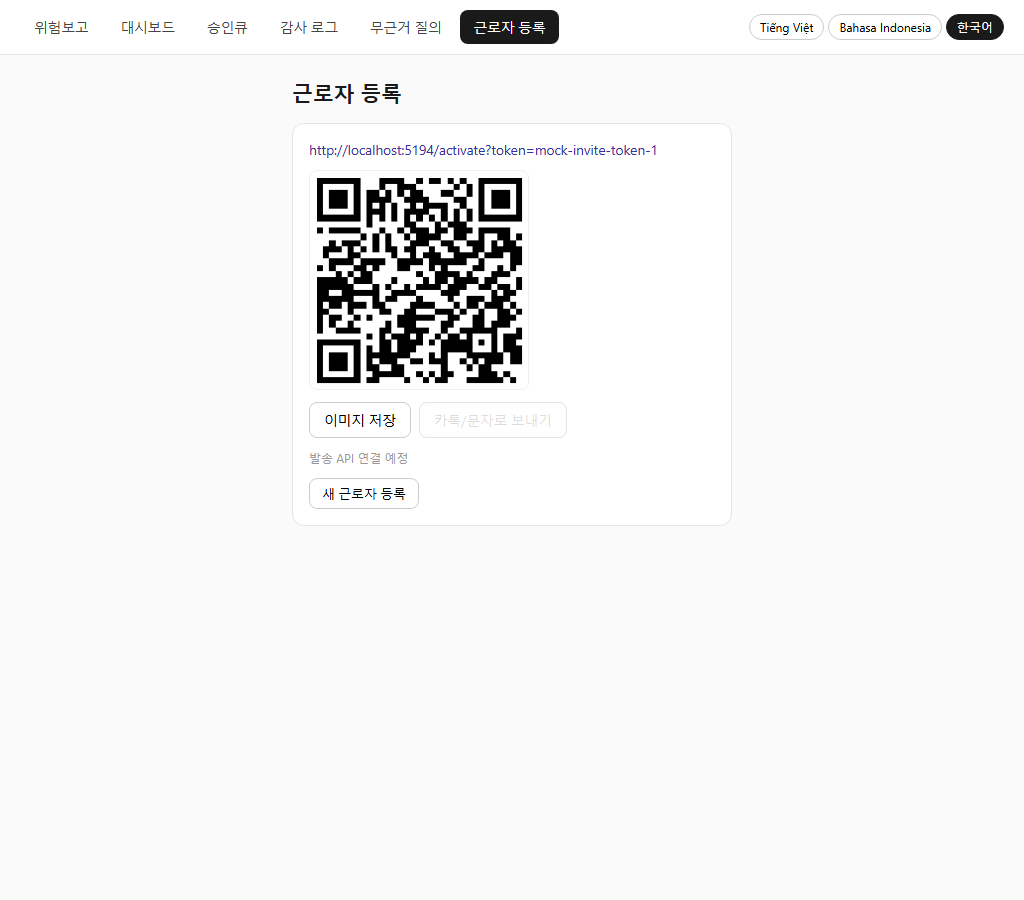
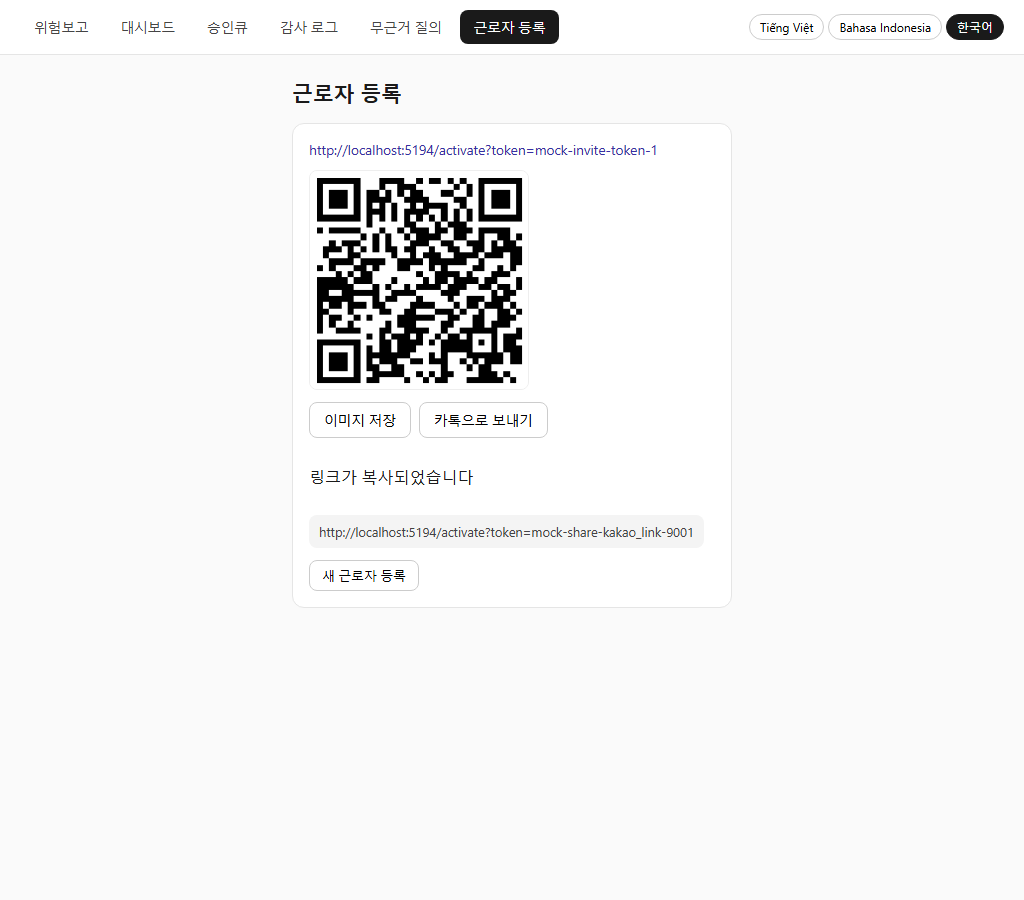
feat(frontend): 근로자 등록 화면 카톡 발송 버튼 연결(⑤)
SB #87 파트1 확정 계약: POST /admin/workers/{id}/send-invite
{channel:'kakao_link'} → {share_url}. {id}=worker_id, Bearer 미부착
(invite와 동일 IP 화이트리스트 관례).

- api/types.ts: WorkerInviteResult에 worker_id?: number 추가(§3 계약
  밖·SB #87 파트2 전까지 실백엔드 미제공, optional로 방어). SendInviteResult
  {share_url} 신규
- api/adminWorkers.ts: sendInvite(workerId, channel='kakao_link') —
  실경로 배선(Bearer 미부착) + mock, !ok면 status 실어 throw(inviteWorker
  관례 재사용)
- api/fixtures/adminWorkers.fixtures.ts: inviteMock 응답에 worker_id
  채움. sendInviteMock 신규(invite_url과 같은 축의 mock 링크 반환)
- Workers/index.tsx: 기존 disabled "카톡/문자로 보내기" placeholder →
  "카톡으로 보내기"(admin.workers.sendKakao)로 교체
  · 활성 조건 = result.worker_id 존재(없으면 disabled + 안내 문구 —
    파트2 전 실백엔드는 worker_id 미제공)
  · navigator.share 가능 시 우선 사용, 사용자 취소(AbortError)는 에러
    아님(폴백 없이 종료)
  · 그 외(share 미지원·취소 아닌 실패) → clipboard.writeText 시도 +
    share_url 텍스트 항상 노출("링크가 복사되었습니다" 병기)
  · 복사도 실패하면 share_url 텍스트만으로 수동 복사 유도
  · ★invite POST 본문은 여전히 {name,emp_no,lang}만 — phone 무변경
- i18n(ko/vi/in): sendKakao·sendCopied·sendError 신규, 안 쓰게 된
  sendComingSoon 제거(dead key 0 유지), 그 외 기존 키 전부 무변경

검증: build green(mock/real, tsc --noEmit 포함). shot:admin-workers
갱신(headless Chromium은 navigator.share 미지원이라 클립보드 경로 자동
검증됨, clipboard 권한 grantPermissions로 부여) — 발급→worker_id 있는
mock 확인→발송 버튼 활성화→클릭→share_url 획득→클립보드 복사 성공+
share-url-text·send-copied 렌더 전부 확인, 기존 422/409/QR/이미지저장
회귀 전부 유지, 전부 PASS. dead i18n key 0(58키).

Changed region(s): [[0.3125, 0.4978, 0.5, 0.6533], [0.4375, 0.4356, 0.5312, 0.4978], [0.5312, 0.5911, 0.6562, 0.6222]]

diff --git a/frontend/src/apps/admin/screens/Workers/index.tsx b/frontend/src/apps/admin/screens/Workers/index.tsx
@@ -1,12 +1,13 @@
 import { useEffect, useRef, useState, type FormEvent } from "react";
 import QRCode from "qrcode";
-import { inviteWorker } from "../../../../api/adminWorkers";
+import { inviteWorker, sendInvite } from "../../../../api/adminWorkers";
 import type { WorkerInviteLang, WorkerInviteResult } from "../../../../api/types";
 import { useAdminLang } from "../../../../i18n/AdminLangContext";
 import "./Workers.css";
 
 type Status = "idle" | "loading" | "error";
 type ErrorKind = "duplicate" | "invalid" | "generic";
+type SendStatus = "idle" | "loading" | "error";
 
 function errorStatus(e: unknown): number | undefined {
   return e && typeof e === "object" && "status" in e ? (e as { status?: number }).status : undefined;
@@ -23,6 +24,9 @@ export default function AdminWorkersScreen() {
   const [status, setStatus] = useState<Status>("idle");
   const [errorKind, setErrorKind] = useState<ErrorKind>("generic");
   const [result, setResult] = useState<WorkerInviteResult | null>(null);
+  const [sendStatus, setSendStatus] = useState<SendStatus>("idle");
+  const [shareUrl, setShareUrl] = useState<string | null>(null);
+  const [copied, setCopied] = useState(false);
   const canvasRef = useRef<HTMLCanvasElement>(null);
 
   useEffect(() => {
@@ -56,6 +60,47 @@ export default function AdminWorkersScreen() {
     setEmpNo("");
     setPhone("");
     setStatus("idle");
+    setSendStatus("idle");
+    setShareUrl(null);
+    setCopied(false);
+  }
+
+  // ⑤ SB #87 파트1 확정: {channel:'kakao_link'} → {share_url}. worker_id는 파트2 전 실
+  // 백엔드가 아직 안 채우므로 result.worker_id 없으면 버튼 자체가 disabled(아래 렌더).
+  async function handleSendKakao() {
+    if (!result?.worker_id) return;
+    setSendStatus("loading");
+    setCopied(false);
+    setShareUrl(null);
+    try {
+      const { share_url } = await sendInvite(result.worker_id, "kakao_link");
+      let nativeShared = false;
+      if (typeof navigator.share === "function") {
+        try {
+          await navigator.share({ url: share_url });
+          nativeShared = true;
+        } catch (e) {
+          // 사용자가 공유 시트를 취소한 것은 에러가 아니다 — 그대로 종료(클립보드 폴백 없음).
+          if (e instanceof Error && e.name === "AbortError") {
+            nativeShared = true;
+          }
+        }
+      }
+      if (!nativeShared) {
+        // navigator.share 미지원이거나 취소가 아닌 사유로 실패 — 링크를 화면에 항상 노출하고
+        // 클립보드 복사까지 시도한다(복사도 실패하면 노출된 텍스트로 수동 복사).
+        setShareUrl(share_url);
+        try {
+          await navigator.clipboard.writeText(share_url);
+          setCopied(true);
+        } catch {
+          // 복사 실패 — shareUrl 텍스트 노출만으로 수동 복사 유도.
+        }
+      }
+      setSendStatus("idle");
+    } catch {
+      setSendStatus("error");
+    }
   }
 
   function handleSaveImage() {
@@ -148,11 +193,35 @@ export default function AdminWorkersScreen() {
             <button type="button" data-testid="invite-save-image" onClick={handleSaveImage}>
               이미지 저장
             </button>
-            <button type="button" data-testid="invite-send" disabled title={t("admin.workers.sendComingSoon")}>
-              카톡/문자로 보내기
+            <button
+              type="button"
+              data-testid="invite-send"
+              disabled={!result.worker_id || sendStatus === "loading"}
+              onClick={handleSendKakao}
+            >
+              {sendStatus === "loading" ? t("admin.workers.submitting") : t("admin.workers.sendKakao")}
             </button>
           </div>
-          <p className="hint">{t("admin.workers.sendComingSoon")}</p>
+
+          {!result.worker_id && (
+            <p className="hint" data-testid="send-no-worker-id">
+              실백엔드가 아직 worker_id를 내려주지 않습니다(SB #87 파트2 예정) — 발급 응답에
+              worker_id가 있어야 발송 버튼이 활성화됩니다.
+            </p>
+          )}
+          {sendStatus === "error" && (
+            <p className="error" data-testid="send-error">
+              {t("admin.workers.sendError")}
+            </p>
+          )}
+          {copied && (
+            <p data-testid="send-copied">{t("admin.workers.sendCopied")}</p>
+          )}
+          {shareUrl && (
+            <p className="share-url-text" data-testid="share-url-text">
+              {shareUrl}
+            </p>
+          )}
 
           <button type="button" data-testid="invite-new" onClick={handleReset}>
             새 근로자 등록

diff --git a/frontend/src/api/adminWorkers.ts b/frontend/src/api/adminWorkers.ts
@@ -1,5 +1,5 @@
-import type { WorkerInviteRequest, WorkerInviteResult } from "./types";
-import { inviteMock } from "./fixtures/adminWorkers.fixtures";
+import type { SendInviteResult, WorkerInviteRequest, WorkerInviteResult } from "./types";
+import { inviteMock, sendInviteMock } from "./fixtures/adminWorkers.fixtures";
 
 // Mock 경계 (skeleton-v3 §7). glossary.ts·adminUnanswered.ts 구조 템플릿 — 어드민 API는
 // IP 화이트리스트로 보호되어 Bearer를 붙이지 않는다.
@@ -23,6 +23,27 @@ export async function inviteWorker(body: WorkerInviteRequest): Promise<WorkerInv
     throw Object.assign(new Error(`invite failed: ${res.status}`), { status: res.status });
   }
   return (await res.json()) as WorkerInviteResult;
+}
+
+// {id}=worker_id(경로), body {channel} — SB #87 파트1 확정. Bearer 미부착(invite와 동일).
+// 에러는 status를 Error에 실어 던진다(inviteWorker와 동일 관례).
+export async function sendInvite(
+  workerId: number,
+  channel: "kakao_link" = "kakao_link",
+): Promise<SendInviteResult> {
+  if (USE_MOCK) {
+    await delay(150);
+    return sendInviteMock(workerId, channel);
+  }
+  const res = await fetch(`/api/v1/admin/workers/${workerId}/send-invite`, {
+    method: "POST",
+    headers: { "Content-Type": "application/json" },
+    body: JSON.stringify({ channel }),
+  });
+  if (!res.ok) {
+    throw Object.assign(new Error(`send-invite failed: ${res.status}`), { status: res.status });
+  }
+  return (await res.json()) as SendInviteResult;
 }
 
 function delay(ms: number): Promise<void> {

diff --git a/frontend/src/api/fixtures/adminWorkers.fixtures.ts b/frontend/src/api/fixtures/adminWorkers.fixtures.ts
@@ -1,4 +1,4 @@
-import type { WorkerInviteRequest, WorkerInviteResult } from "../types";
+import type { SendInviteResult, WorkerInviteRequest, WorkerInviteResult } from "../types";
 import { appendEvent } from "./adminEvents.fixtures";
 
 // invites.py:88-98 _validate와 동일 순서(emp_no → name → lang) + :118 WorkerAlreadyActive —
@@ -43,5 +43,13 @@ export function inviteMock(body: WorkerInviteRequest): WorkerInviteResult {
     detail: empNo,
   });
 
-  return { invite_url: inviteUrl };
+  // worker_id는 §3 계약 밖(SB #87 파트2 전) — mock은 ⑤ 카톡 발송 버튼 활성화 조건용으로
+  // 지금부터 채운다(types.ts WorkerInviteResult 주석 참고).
+  return { invite_url: inviteUrl, worker_id: workerId };
+}
+
+// SB #87 파트1 확정 — {channel:'kakao_link'} → {share_url}. mock은 invite_url을 그대로
+// 공유 링크로 재사용(실API 착륙 전까지 형태만 맞춘 임시값).
+export function sendInviteMock(workerId: number, channel: string): SendInviteResult {
+  return { share_url: `${window.location.origin}/activate?token=mock-share-${channel}-${workerId}` };
 }

diff --git a/frontend/src/api/types.ts b/frontend/src/api/types.ts
@@ -245,6 +245,15 @@ export interface WorkerInviteRequest {
 }
 
 // invites.py:137 create_invite 반환 그대로 — 201 성공 시 이 한 필드뿐.
+// worker_id는 §3 계약 밖(SB #87 파트2 전) — 그 전까지 실백엔드는 안 채운다. mock은
+// ⑤ 카톡 발송 버튼 활성화 조건으로 쓰기 위해 지금부터 채운다(optional로 방어적 처리).
 export interface WorkerInviteResult {
   invite_url: string;
+  worker_id?: number;
+}
+
+// 카톡 발송 — POST /admin/workers/{id}/send-invite (SB #87 파트1 확정, {id}=worker_id).
+// body {channel:'kakao_link'} → 이 응답. 어드민 API 관례대로 Bearer 미부착.
+export interface SendInviteResult {
+  share_url: string;
 }

diff --git a/frontend/src/apps/admin/screens/Workers/Workers.css b/frontend/src/apps/admin/screens/Workers/Workers.css
@@ -85,6 +85,16 @@
   border-radius: 8px;
 }
 
+.share-url-text {
+  margin: 0;
+  padding: 8px 10px;
+  border-radius: 8px;
+  background: #f4f4f4;
+  font-size: 0.8rem;
+  color: #444;
+  word-break: break-all;
+}
+
 .invite-actions {
   display: flex;
   gap: 8px;
